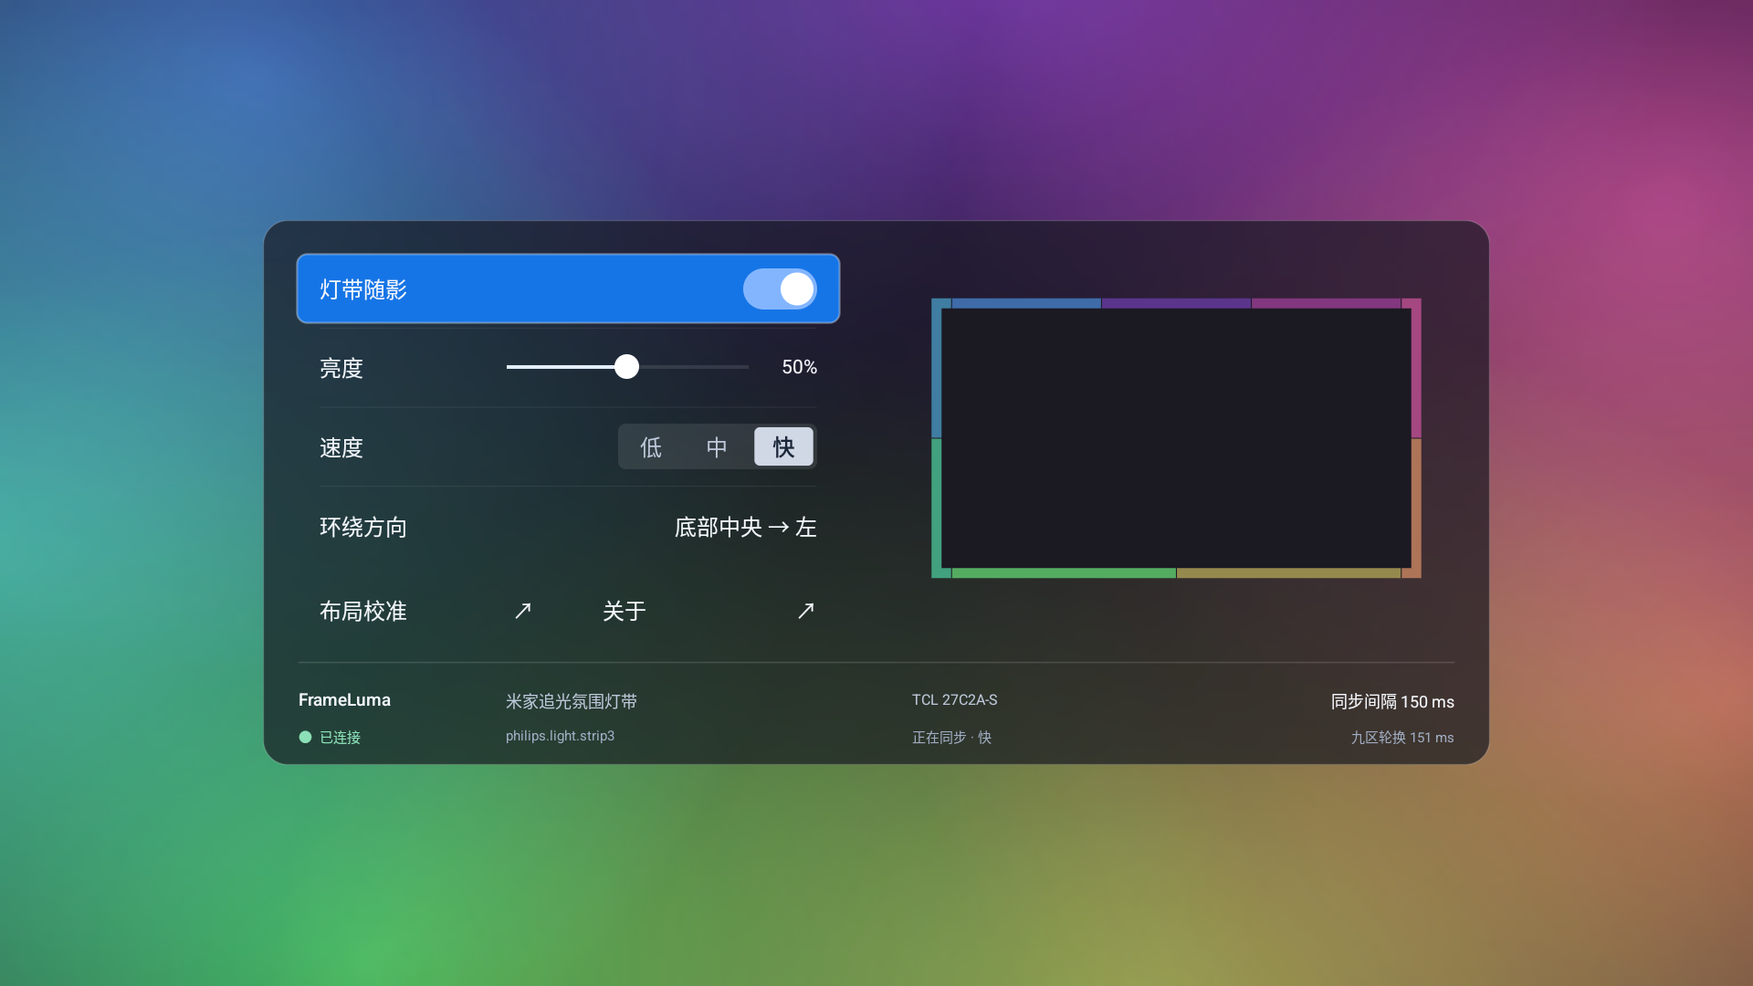
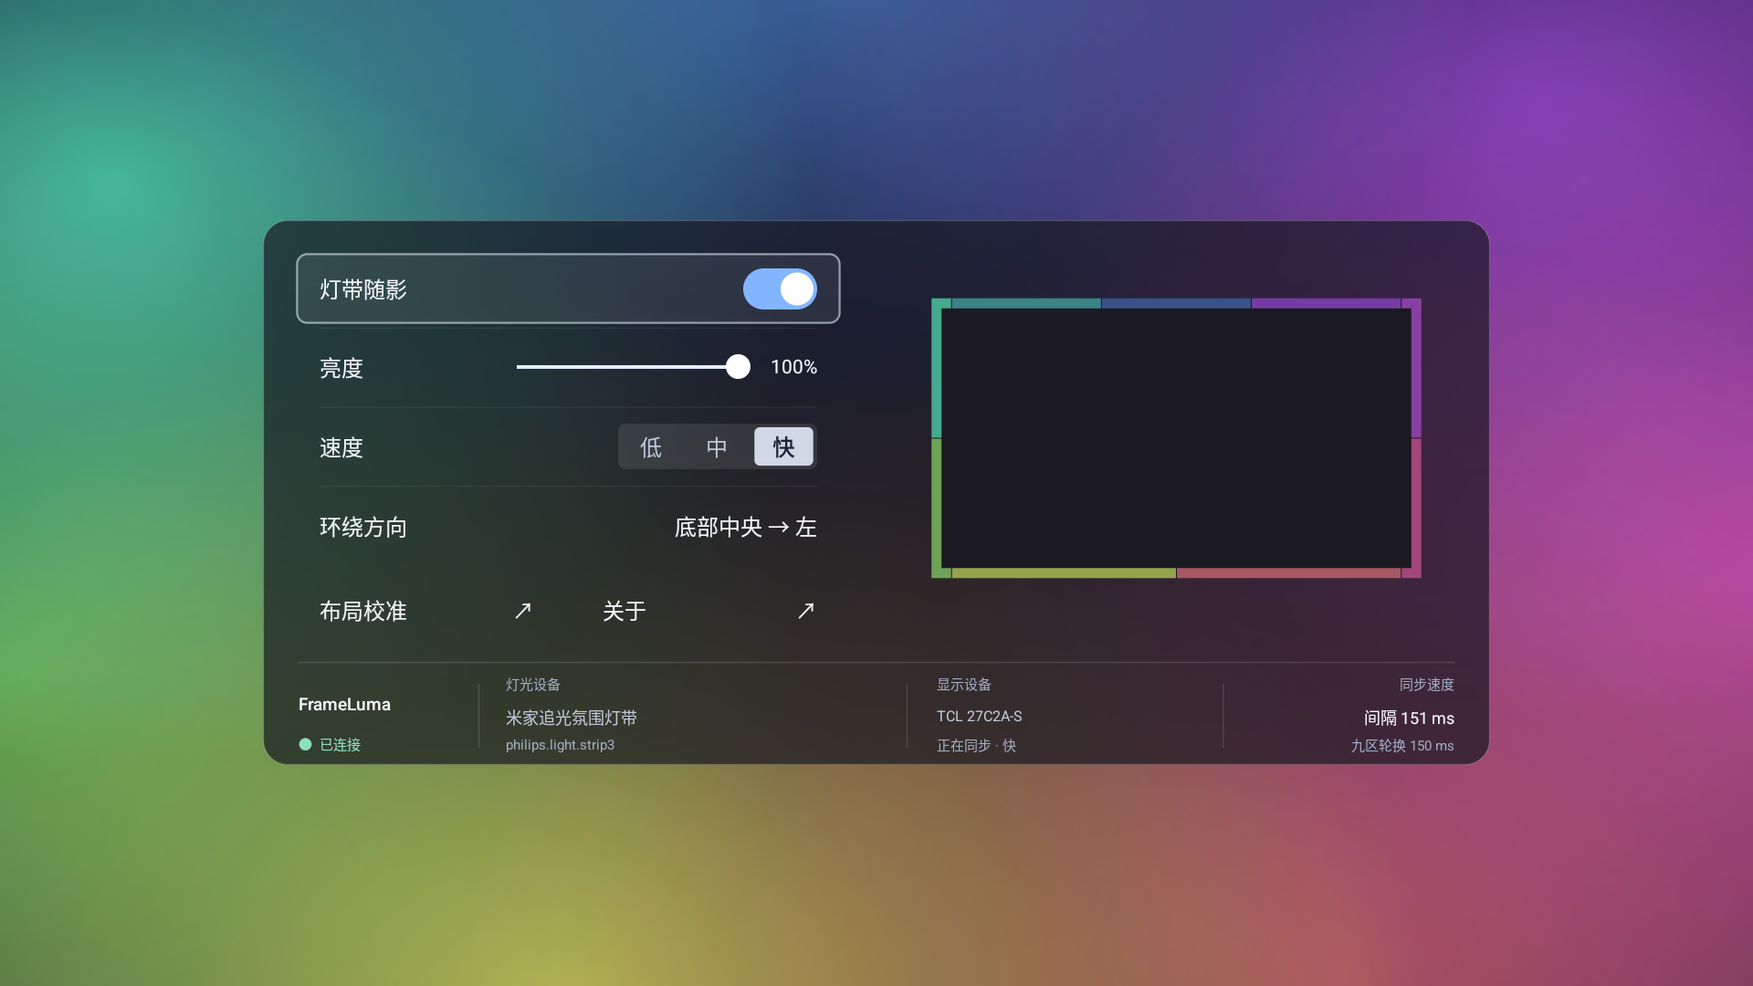
Fix exact brightness gestures and refine motion, focus and status groups

diff --git a/app/src/main/java/com/xiaomi/mitv/light/ui/BrightnessSlider.kt b/app/src/main/java/com/xiaomi/mitv/light/ui/BrightnessSlider.kt
@@ -4,24 +4,53 @@ import android.content.Context
 import android.content.res.ColorStateList
 import android.graphics.Color
 import android.view.Gravity
+import android.view.MotionEvent
 import android.widget.LinearLayout
 import android.widget.SeekBar
+import com.xiaomi.mitv.light.R
+import kotlin.math.ceil
 
 class BrightnessSlider(context: Context, private val changed: (Int) -> Unit) : LinearLayout(context) {
-    private val slider = SeekBar(context).apply {
-        max = 99; isFocusable = false; splitTrack = false
+    private val slider = object : SeekBar(context) {
+        private fun acceptPosition(x: Float) {
+            val next = PercentTrack.at(x, width, paddingLeft, paddingRight)
+            if (progress != next) { progress = next; value.text = "$next%"; changed(next) }
+        }
+        override fun onTouchEvent(event: MotionEvent): Boolean {
+            if (!isEnabled) return false
+            when (event.actionMasked) {
+                MotionEvent.ACTION_DOWN -> {
+                    parent?.requestDisallowInterceptTouchEvent(true)
+                    tracking = true; isPressed = true; acceptPosition(event.x); return true
+                }
+                MotionEvent.ACTION_MOVE -> { acceptPosition(event.x); return true }
+                MotionEvent.ACTION_UP -> {
+                    acceptPosition(event.x); isPressed = false; tracking = false
+                    parent?.requestDisallowInterceptTouchEvent(false); performClick(); return true
+                }
+                MotionEvent.ACTION_CANCEL -> {
+                    isPressed = false; tracking = false; parent?.requestDisallowInterceptTouchEvent(false); return true
+                }
+            }
+            return super.onTouchEvent(event)
+        }
+        override fun performClick(): Boolean = super.performClick()
+    }.apply {
+        id = R.id.brightness_seek
+        max = 100; isFocusable = false; splitTrack = false
         progressTintList = ColorStateList.valueOf(0xffe3edff.toInt())
         progressBackgroundTintList = ColorStateList.valueOf(0x55ffffff)
         thumbTintList = ColorStateList.valueOf(Color.WHITE)
         contentDescription = "灯带亮度"
     }
-    private val value = designText(context, "", 14f).apply { gravity = Gravity.CENTER_VERTICAL or Gravity.END }
+    private var tracking = false
+    private val value = designText(context, "", 14f).apply { id = R.id.brightness_value; gravity = Gravity.CENTER_VERTICAL or Gravity.END }
     init {
         orientation = HORIZONTAL; gravity = Gravity.CENTER_VERTICAL
         addView(slider, LayoutParams(0, -1, 1f)); addView(value, LayoutParams(44, -1))
         slider.setOnSeekBarChangeListener(object : SeekBar.OnSeekBarChangeListener {
             override fun onProgressChanged(bar: SeekBar, progress: Int, fromUser: Boolean) {
-                if (fromUser) { value.text = "${progress + 1}%"; changed(progress + 1) }
+                if (fromUser) { value.text = "$progress%"; changed(progress) }
             }
             override fun onStartTrackingTouch(bar: SeekBar) { }
             override fun onStopTrackingTouch(bar: SeekBar) { }
@@ -29,11 +58,16 @@ class BrightnessSlider(context: Context, private val changed: (Int) -> Unit) : L
     }
     fun applyUnit(unit: Float) {
         value.layoutParams = LayoutParams((44 * unit).toInt(), -1)
-        slider.thumb = RoundKnob(18 * unit)
-        slider.setPadding((7 * unit).toInt(), 0, (7 * unit).toInt(), 0)
+        val diameter = 18 * unit
+        slider.thumb = RoundKnob(diameter)
+        slider.thumbOffset = (diameter / 2).toInt()
+        val inset = ceil(diameter / 2 + 5 * unit).toInt()
+        slider.setPadding(inset, 0, inset, 0)
     }
     fun show(brightness: Int) {
-        if (!slider.isPressed && slider.progress != brightness - 1) slider.progress = brightness - 1
-        value.text = "$brightness%"
+        if (tracking) { value.text = "${slider.progress}%"; return }
+        val bounded = brightness.coerceIn(0, 100)
+        if (slider.progress != bounded) slider.progress = bounded
+        value.text = "$bounded%"
     }
 }

diff --git a/app/src/main/java/com/xiaomi/mitv/light/MainActivity.kt b/app/src/main/java/com/xiaomi/mitv/light/MainActivity.kt
@@ -49,19 +49,22 @@ class MainActivity : Activity(), UiFrameConsumer {
         val panel = DashboardPanel(this)
         preview = StripPreview(this).apply { id = R.id.color_preview }
         panel.place(preview, 470, 40, 400, 240)
-        panel.place(designText(this, "FrameLuma", 13f).apply { id = R.id.brand_title; typeface = Typeface.create("sans-serif-medium", Typeface.NORMAL) }, 26, 342, 130, 20)
+        panel.place(designText(this, "FrameLuma", 13f).apply { id = R.id.brand_title; typeface = Typeface.create("sans-serif-medium", Typeface.NORMAL) }, 26, 344, 116, 22)
         connection = designText(this, "", 10f).apply { id = R.id.connection_status }
-        panel.place(connection, 26, 370, 130, 17)
+        panel.place(connection, 26, 376, 116, 17)
+        panel.place(designText(this, "灯光设备", 10f, UiTheme.muted).apply { id = R.id.light_group_label }, 178, 333, 274, 15)
+        panel.place(designText(this, "显示设备", 10f, UiTheme.muted).apply { id = R.id.display_group_label }, 494, 333, 188, 15)
+        panel.place(designText(this, "同步速度", 10f, UiTheme.muted).apply { id = R.id.sync_group_label; gravity = Gravity.CENTER_VERTICAL or Gravity.END }, 726, 333, 148, 15)
         controllerName = designText(this, "", 12f, UiTheme.secondary).apply { id = R.id.controller_name }
         controllerModel = designText(this, "", 10f, UiTheme.muted).apply { id = R.id.controller_model }
-        panel.place(controllerName, 178, 342, 278, 20); panel.place(controllerModel, 178, 370, 278, 17)
+        panel.place(controllerName, 178, 354, 274, 20); panel.place(controllerModel, 178, 378, 274, 15)
         device = designText(this, "", 11f, UiTheme.secondary).apply { id = R.id.display_info }
-        panel.place(device, 476, 342, 204, 20)
+        panel.place(device, 494, 354, 188, 20)
         status = designText(this, "准备画面…", 10f, UiTheme.muted).apply { id = R.id.source_status }
-        panel.place(status, 476, 370, 204, 17)
+        panel.place(status, 494, 378, 188, 15)
         latency = designText(this, "", 12f).apply { id = R.id.sync_latency; gravity = Gravity.CENTER_VERTICAL or Gravity.END }
         sweepLatency = designText(this, "", 10f, UiTheme.muted).apply { id = R.id.sweep_latency; gravity = Gravity.CENTER_VERTICAL or Gravity.END }
-        panel.place(latency, 700, 342, 174, 20); panel.place(sweepLatency, 700, 370, 174, 17)
+        panel.place(latency, 726, 354, 148, 20); panel.place(sweepLatency, 726, 378, 148, 15)
 
         power = tile(panel, R.id.light_toggle, "灯带随影", 24, 80)
         powerSwitch = SlideToggle(this).apply { id = R.id.light_switch }
@@ -119,7 +122,7 @@ class MainActivity : Activity(), UiFrameConsumer {
         stageBrightness((pendingBrightness ?: AppCore.brightness()) + delta); render()
     }
     private fun stageBrightness(value: Int) {
-        pendingBrightness = value.coerceIn(1, 100)
+        pendingBrightness = value.coerceIn(0, 100)
         handler.removeCallbacks(saveBrightness); handler.postDelayed(saveBrightness, 600)
         brightnessSlider.show(pendingBrightness!!)
     }
@@ -172,7 +175,7 @@ class MainActivity : Activity(), UiFrameConsumer {
                 else -> "准备随影画面…"
             }
             val reporting = AppCore.enabled() && engine?.optBoolean("running", false) == true
-            latency.text = if (reporting) "同步间隔 ${engine?.optInt("output_interval_ms", 0)} ms" else "同步已停止"
+            latency.text = if (reporting) "间隔 ${engine?.optInt("output_interval_ms", 0)} ms" else "同步已停止"
             sweepLatency.text = if (reporting) "九区轮换 ${engine?.optInt("actual_period_ms", 0)} ms" else "— ms"
         }
         updatePreview()

diff --git a/app/src/main/java/com/xiaomi/mitv/light/ui/DashboardPanel.kt b/app/src/main/java/com/xiaomi/mitv/light/ui/DashboardPanel.kt
@@ -33,6 +33,7 @@ class DashboardPanel(context: Context) : ViewGroup(context) {
     private val bounds = RectF()
     private val edge = Paint(Paint.ANTI_ALIAS_FLAG).apply { style = Paint.Style.STROKE; color = 0x2bffffff }
     private val separators = intArrayOf(79, 137, 195)
+    private val footerDividers = intArrayOf(158, 472, 704)
     private var unit = Float.NaN
     init { id = R.id.dashboard_panel; setWillNotDraw(false) }
     fun place(view: View, x: Int, y: Int, w: Int, h: Int) {
@@ -78,5 +79,7 @@ class DashboardPanel(context: Context) : ViewGroup(context) {
         paint.color = 0x24ffffff; canvas.drawRect(26 * unit, 324 * unit, width - 26 * unit, 325 * unit, paint)
         paint.color = 0x16ffffff
         for (y in separators) canvas.drawRect(42 * unit, y * unit, 406 * unit, (y + .6f) * unit, paint)
+        paint.color = 0x2bffffff
+        for (x in footerDividers) canvas.drawRect(x * unit, 340 * unit, (x + .7f) * unit, 387 * unit, paint)
     }
 }

diff --git a/app/src/main/java/com/xiaomi/mitv/light/ui/ControlTile.kt b/app/src/main/java/com/xiaomi/mitv/light/ui/ControlTile.kt
@@ -22,10 +22,10 @@ class TileSurface : Drawable() {
         val u = bounds.height() / 56f
         val focused = state.contains(android.R.attr.state_focused)
         rect.set(bounds.left + u, bounds.top + u, bounds.right - u, bounds.bottom - u)
-        paint.style = Paint.Style.FILL; paint.color = if (focused) 0xff1675e6.toInt() else Color.TRANSPARENT
+        paint.style = Paint.Style.FILL; paint.color = if (focused) 0x14ffffff else Color.TRANSPARENT
         canvas.drawRoundRect(rect, 8 * u, 8 * u, paint)
         paint.style = Paint.Style.STROKE; paint.strokeWidth = if (focused) 1.6f * u else u
-        paint.color = if (focused) 0x55ffffff else Color.TRANSPARENT
+        paint.color = if (focused) 0x99dee8f7.toInt() else Color.TRANSPARENT
         canvas.drawRoundRect(rect, 8 * u, 8 * u, paint)
     }
     override fun setAlpha(alpha: Int) { }

diff --git a/app/tools/check_main_ui.py b/app/tools/check_main_ui.py
@@ -26,7 +26,7 @@ args.output.mkdir(parents=True,exist_ok=True)
 (args.output/'hierarchy.txt').write_text(hierarchy,encoding='utf-8')
 (args.output/'screen.png').write_bytes(run('exec-out','screencap','-p'))
 assert 'android.widget.ScrollView{' not in hierarchy,'Main screen still scrolls/clips on the actual logical window'
-for name in ['dashboard_panel','brand_title','controller_name','controller_model','color_preview','sync_latency','sweep_latency','connection_status','light_toggle','light_switch','brightness_control','speed_control','direction_control','calibration_control','about_control']:
+for name in ['dashboard_panel','brand_title','controller_name','controller_model','light_group_label','display_group_label','sync_group_label','color_preview','sync_latency','sweep_latency','connection_status','light_toggle','light_switch','brightness_seek','brightness_value','brightness_control','speed_control','direction_control','calibration_control','about_control']:
     assert 'id/'+name in hierarchy,f'Missing main control: {name}'
 report={'main_window':True,'scroll_view':False,'all_main_controls_present':True}
 window=re.search(r'android\.widget\.FrameLayout\{[^\n]*? 0,0-(\d+),(\d+)',hierarchy)
@@ -35,7 +35,7 @@ assert window and panel,'Window geometry missing'
 w,h=map(int,window.groups());left,top,right,bottom=map(int,panel.groups())
 assert abs((left+right)/2-w/2)<=1 and abs((top+bottom)/2-h/2)<=1,'Dashboard is not centered'
 rectangles={}
-for name in ['brand_title','controller_name','controller_model','display_info','source_status','sync_latency','sweep_latency','connection_status','color_preview','light_toggle','brightness_control','speed_control','direction_control','calibration_control','about_control']:
+for name in ['brand_title','controller_name','controller_model','light_group_label','display_group_label','sync_group_label','display_info','source_status','sync_latency','sweep_latency','connection_status','color_preview','light_toggle','brightness_control','speed_control','direction_control','calibration_control','about_control']:
     rect=re.search(r'\{[^\n]*? (\d+),(\d+)-(\d+),(\d+) [^\n]*id/'+name,hierarchy)
     assert rect,f'Bounds missing: {name}'
     x,y,x2,y2=map(int,rect.groups())
@@ -45,7 +45,7 @@ report.update({'window_px':[w,h],'centered':True,'dashboard_bounds':[left,top,ri
 assert (right-left)/w<=.71,'Panel no longer uses the compact viewport'
 for name in ['light_toggle','brightness_control','speed_control','direction_control','calibration_control','about_control']:
     assert rectangles[name][2]<rectangles['color_preview'][0],'Controls must stay on the left'
-for name in ['brand_title','controller_name','controller_model','display_info','source_status','sync_latency','sweep_latency','connection_status']:
+for name in ['brand_title','controller_name','controller_model','light_group_label','display_group_label','sync_group_label','display_info','source_status','sync_latency','sweep_latency','connection_status']:
     assert rectangles[name][1]>=(bottom-top)*.81,'Status/project information must stay in the bottom bar'
 report.update({'controls_on_left':True,'preview_on_right':True,'information_in_footer':True,'compact_panel':True,'panel_relative_rectangles':rectangles})
 (args.output/'result.json').write_text(json.dumps(report,indent=2),encoding='utf-8')

diff --git a/runtime/src/main/java/com/xiaomi/mitv/light/tcl/AppCore.java b/runtime/src/main/java/com/xiaomi/mitv/light/tcl/AppCore.java
@@ -29,7 +29,7 @@ public final class AppCore {
   if(value==power()&&(value||!enabled()))return;
   SharedPreferences.Editor e=prefs().edit().putBoolean("power",value);if(!value){e.putBoolean("enabled",false);clearLocator();}e.apply();changed();
  }
- public static void setBrightness(int value){value=Math.max(1,Math.min(100,value));if(value!=brightness()){prefs().edit().putInt("brightness",value).apply();changed();}}
+ public static void setBrightness(int value){value=Math.max(0,Math.min(100,value));if(value!=brightness()){prefs().edit().putInt("brightness",value).apply();changed();}}
  public static void setPeriod(int value){value=com.xiaomi.mitv.light.core.FramePacer.normalizeLegacyPeriod(value);if(value!=period()){prefs().edit().putInt("period",value).apply();changed();}}
  public static void setUiVisible(boolean value){uiVisible=value;if(!value)uiFrames.clear();}
  public static void publishUiFrame(int[] colors,String layout){if(uiVisible)uiFrames.publish(colors,android.os.SystemClock.elapsedRealtime(),layout);}
@@ -62,7 +62,8 @@ public final class AppCore {
  }
  public static synchronized void clearLocator(){locatorUnit=0;locatorZone=-1;locatorUntil=0;}
  public static synchronized String settings(){JSONObject j=new JSONObject();try{
-  j.put("enabled",enabled());j.put("power",power());j.put("period_ms",period());j.put("brightness_percent",brightness());j.put("layout",layout().json());j.put("ui_visible",uiVisible);
+  // Frozen installed host validates 1..100. The new engine separately reads the logical 0..100 value.
+  j.put("enabled",enabled());j.put("power",power());j.put("period_ms",period());j.put("brightness_percent",Math.max(1,brightness()));j.put("user_brightness_percent",brightness());j.put("layout",layout().json());j.put("ui_visible",uiVisible);
   if(android.os.SystemClock.elapsedRealtime()>=locatorUntil)clearLocator();
   j.put("locator_unit",locatorUnit);j.put("locator_zone",locatorZone);j.put("locator_until_elapsed",locatorUntil);
  }catch(Exception e){throw new IllegalStateException(e);}return j.toString();}

diff --git a/app/src/test/java/com/xiaomi/mitv/light/ui/AuroraMotionTest.java b/app/src/test/java/com/xiaomi/mitv/light/ui/AuroraMotionTest.java
@@ -5,15 +5,20 @@ import static org.junit.Assert.*;
 public class AuroraMotionTest {
     @Test public void aLightMovesClockwiseInsteadOfSlidingAcrossTheScreen() {
         assertEquals(196,AuroraMotion.x(0,0),.001);assertEquals(54,AuroraMotion.y(0,0),.001);
-        assertEquals(96,AuroraMotion.x(12,0),.001);assertEquals(116,AuroraMotion.y(12,0),.001);
-        assertEquals(-4,AuroraMotion.x(24,0),.001);assertEquals(54,AuroraMotion.y(24,0),.001);
-        assertEquals(96,AuroraMotion.x(36,0),.001);assertEquals(-8,AuroraMotion.y(36,0),.001);
-        assertEquals(AuroraMotion.x(0,0),AuroraMotion.x(48,0),.001);
+        float quarter=AuroraMotion.ORBIT_SECONDS/4;
+        assertEquals(96,AuroraMotion.x(quarter,0),.001);assertEquals(116,AuroraMotion.y(quarter,0),.001);
+        assertEquals(-4,AuroraMotion.x(quarter*2,0),.001);assertEquals(54,AuroraMotion.y(quarter*2,0),.001);
+        assertEquals(96,AuroraMotion.x(quarter*3,0),.001);assertEquals(-8,AuroraMotion.y(quarter*3,0),.001);
+        assertEquals(AuroraMotion.x(0,0),AuroraMotion.x(AuroraMotion.ORBIT_SECONDS,0),.001);
     }
     @Test public void theCloudsCoverTheCompleteHueCircleWithoutASingleRainbowEdge() {
         boolean[] bins=new boolean[12];
         for(int second=0;second<52;second++)for(int light=0;light<AuroraMotion.COUNT;light++)bins[(int)(AuroraMotion.hue(second,light)/30)]=true;
         for(boolean present:bins)assertTrue(present);
         assertTrue(AuroraMotion.hue(.1,0)>AuroraMotion.hue(0,0));
+    }
+    @Test public void movementIsVisibleWithinTwoSecondsForASyncPreview(){
+        double dx=AuroraMotion.x(2,0)-AuroraMotion.x(0,0),dy=AuroraMotion.y(2,0)-AuroraMotion.y(0,0);
+        assertTrue(Math.sqrt(dx*dx+dy*dy)>30);assertTrue(AuroraMotion.hue(1,0)>=20);
     }
 }

diff --git a/runtime/src/main/java/com/xiaomi/mitv/light/tcl/host/LiveEngine.java b/runtime/src/main/java/com/xiaomi/mitv/light/tcl/host/LiveEngine.java
@@ -14,7 +14,7 @@ import org.json.JSONObject;
 
 /** Stable host ABI. One capture/output owner, bounded status, no per-frame disk writes. */
 public final class LiveEngine {
-    private static final String REVISION = "frame-luma-6";
+    private static final String REVISION = "frame-luma-7";
     private static final Uri STATE = Uri.parse("content://com.xiaomi.mitv.light.tcl.state/state");
     private final Context host;
     private volatile Thread worker;
@@ -40,8 +40,8 @@ public final class LiveEngine {
             layout = new LayoutOptions(json.getJSONObject("layout"));
             layoutKey = layout.json().toString();
             period = FramePacer.normalizeLegacyPeriod(json.getInt("period_ms"));
-            brightness = json.getInt("brightness_percent");
-            if (brightness < 1 || brightness > 100) throw new Exception("Brightness out of range");
+            brightness = json.optInt("user_brightness_percent",json.getInt("brightness_percent"));
+            if (brightness < 0 || brightness > 100) throw new Exception("Brightness out of range");
             locatorUnit = json.optInt("locator_unit", 0);
             locatorZone = json.optInt("locator_zone", -1);
             until = json.optLong("locator_until_elapsed", 0);

diff --git a/devices/lights/philips/strip3/src/main/java/com/xiaomi/mitv/light/devices/philips/strip3/Strip3Frames.java b/devices/lights/philips/strip3/src/main/java/com/xiaomi/mitv/light/devices/philips/strip3/Strip3Frames.java
@@ -5,7 +5,9 @@ import java.util.Locale;
 public final class Strip3Frames {
     private Strip3Frames() {}
     public static String encode(int[] rgb,int sequence,int brightness) {
-        if(rgb==null||rgb.length!=20||brightness<1||brightness>100)throw new IllegalArgumentException("Verified 2m frame required");
+        if(rgb==null||rgb.length!=20||brightness<0||brightness>100)throw new IllegalArgumentException("Verified 2m frame required");
+        // Zero is an all-black frame at the already-validated wire brightness 1, not a new firmware command.
+        if(brightness==0){for(int color:rgb)if(color<0||color>0xffffff)throw new IllegalArgumentException("RGB range");return String.format(Locale.ROOT,"set_rgb_pc %04x 00 01 000000 f 000000 5",sequence&65535);}
         StringBuilder out=new StringBuilder(String.format(Locale.ROOT,"set_rgb_pc %04x 00 %02x",sequence&65535,brightness));
         for(int start=0;start<rgb.length;) {
             int color=rgb[start];if(color<0||color>0xffffff)throw new IllegalArgumentException("RGB range");

diff --git a/app/src/test/java/com/xiaomi/mitv/light/ui/PercentTrackTest.java b/app/src/test/java/com/xiaomi/mitv/light/ui/PercentTrackTest.java
@@ -1,0 +1,23 @@
+package com.xiaomi.mitv.light.ui;
+import org.junit.Test;
+import static org.junit.Assert.*;
+
+public class PercentTrackTest {
+    @Test public void everyPercentageIsReachableWithProtectedThumbMargins() {
+        for(int width:new int[]{285,380,570}){
+            int inset=21;
+            for(int percent=0;percent<=100;percent++){
+                float x=inset+(width-inset*2)*percent/100f;
+                assertEquals(percent,PercentTrack.at(x,width,inset,inset));
+            }
+        }
+    }
+    @Test public void actualMidpointAndTouchBeyondEdgesAreExact() {
+        assertEquals(50,PercentTrack.at(143,285,21,21));
+        assertEquals(0,PercentTrack.at(0,285,21,21));
+        assertEquals(100,PercentTrack.at(285,285,21,21));
+        // There is no remembered grab offset: visiting near the center cannot change its value.
+        PercentTrack.at(140,285,21,21);
+        assertEquals(50,PercentTrack.at(143,285,21,21));
+    }
+}

diff --git a/devices/lights/philips/strip3/tests/com/xiaomi/mitv/light/devices/philips/strip3/Strip3FramesTest.java b/devices/lights/philips/strip3/tests/com/xiaomi/mitv/light/devices/philips/strip3/Strip3FramesTest.java
@@ -19,4 +19,13 @@ public class Strip3FramesTest {
         int[] rgb=new int[20];for(int i=0;i<20;i++)rgb[i]=i+1;Strip3Frames.encode(rgb,1,25);
     }
     @Test(expected=IllegalArgumentException.class) public void otherLengthIsNotSilentlyClaimed(){Strip3Frames.encode(new int[40],1,25);}
+    @Test public void zeroBrightnessIsBlackWithoutMutatingInputOrUsingAnUnknownWireValue(){
+        int[] rgb=new int[20];java.util.Arrays.fill(rgb,0xff8030);
+        assertEquals("set_rgb_pc 0007 00 01 000000 f 000000 5",Strip3Frames.encode(rgb,7,0));
+        for(int color:rgb)assertEquals(0xff8030,color);
+    }
+    @Test public void midpointAndMaximumAreExactProtocolPercentages(){
+        assertTrue(Strip3Frames.encode(new int[20],1,50).startsWith("set_rgb_pc 0001 00 32 "));
+        assertTrue(Strip3Frames.encode(new int[20],1,100).startsWith("set_rgb_pc 0001 00 64 "));
+    }
 }

diff --git a/app/src/main/java/com/xiaomi/mitv/light/ui/AuroraMotion.java b/app/src/main/java/com/xiaomi/mitv/light/ui/AuroraMotion.java
@@ -3,7 +3,7 @@ package com.xiaomi.mitv.light.ui;
 /** Reusable motion state for seven overlapping soft lights; clockwise orbit with continuous hue changes. */
 public final class AuroraMotion {
     public static final int COUNT=7, PALETTE=24;
-    public static final float ORBIT_SECONDS=48f;
+    public static final float ORBIT_SECONDS=18f;
     private AuroraMotion(){ }
     public static float x(double seconds,int index) {
         double angle=angle(seconds,index);
@@ -18,7 +18,7 @@ public final class AuroraMotion {
         return seconds*(2*Math.PI/ORBIT_SECONDS)+index*(2*Math.PI/COUNT);
     }
     public static float hue(double seconds,int index) {
-        float hue=(float)((index*(360.0/COUNT)+seconds*7)%360);
+        float hue=(float)((index*(360.0/COUNT)+seconds*24)%360);
         return hue<0?hue+360:hue;
     }
 }
